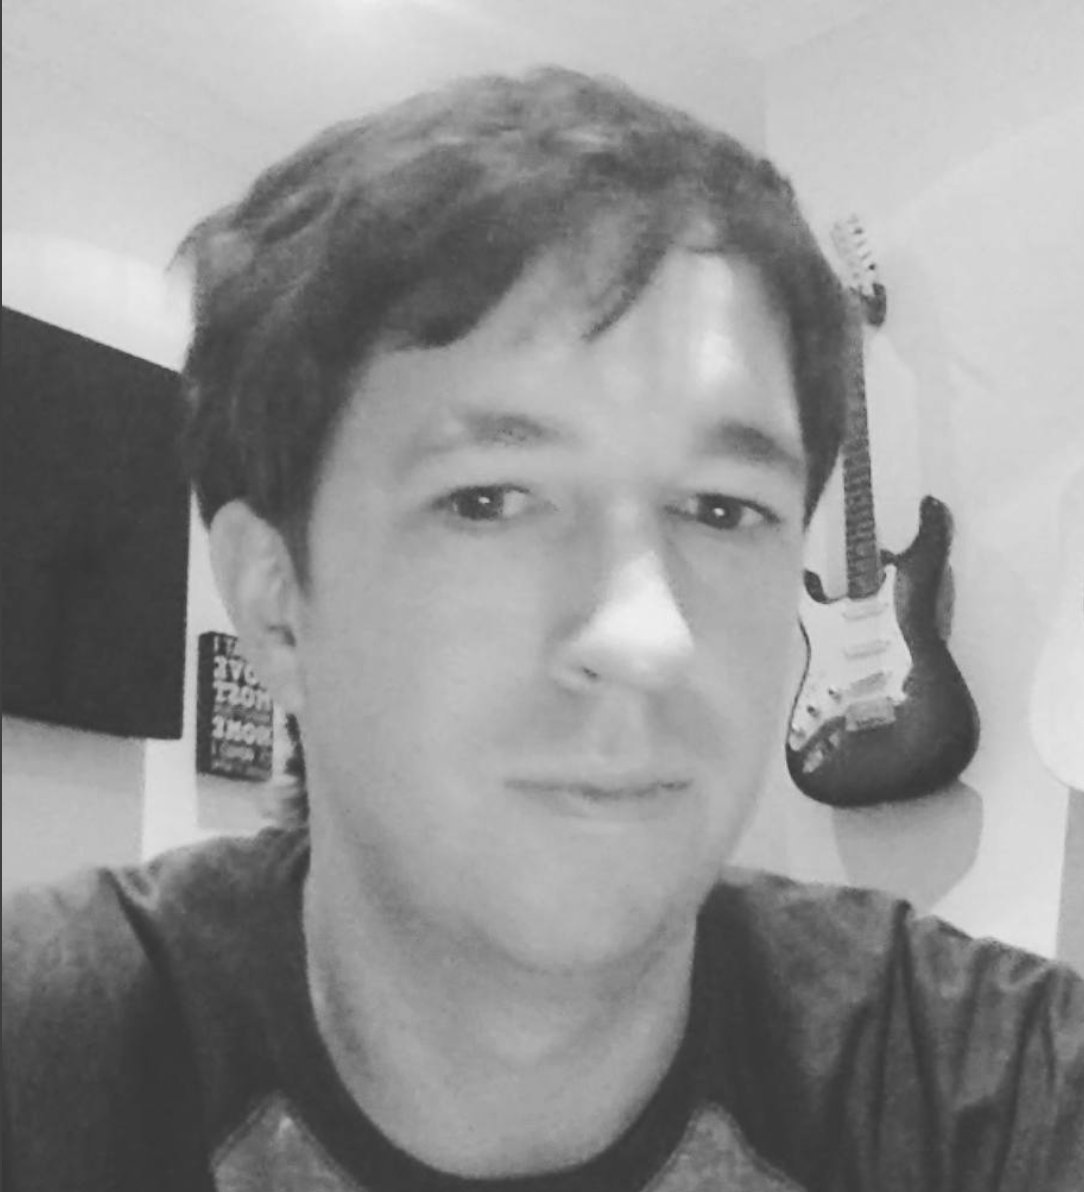
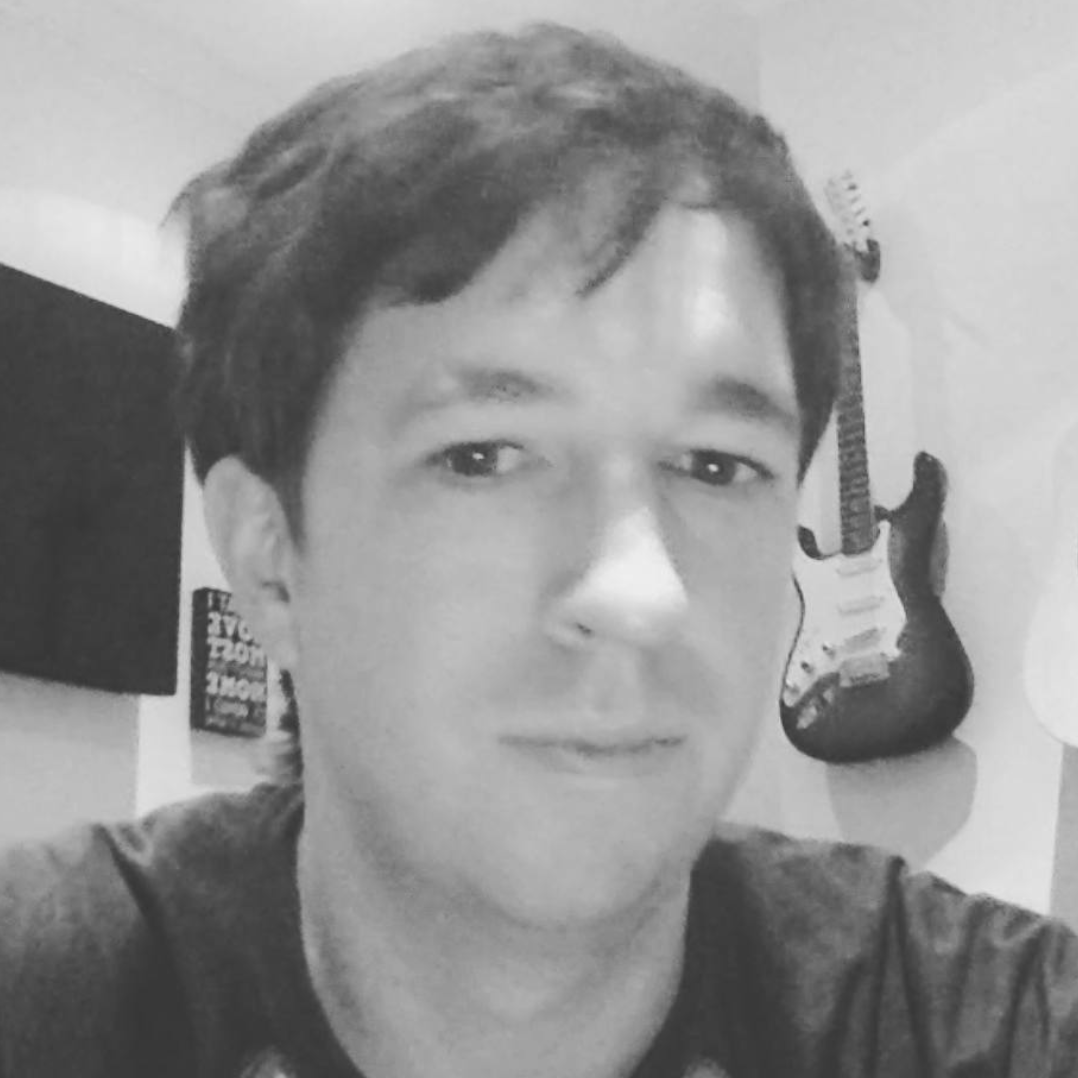
picture styles

diff --git a/src/app/main/main.component.html b/src/app/main/main.component.html
@@ -1,7 +1,7 @@
 <span id="DeltaPlaceHolderMain">                   
   <div class="bannerImg">
     <div id="ctl00_PlaceHolderMain_ucHeroBanner_divBoxPosition" class="herobnr_Right">
-      <a href="https://www.youtube.com/watch?v=o4nOFYcQbhA" id="ctl00_PlaceHolderMain_ucHeroBanner_btnBannerImage" class="hrBanLnk popup-youtube">
+      <a id="ctl00_PlaceHolderMain_ucHeroBanner_btnBannerImage" class="hrBanLnk popup-youtube">
         <div>
           <img id="ctl00_PlaceHolderMain_ucHeroBanner_imgBannerHome" class="heroShadow" src="./assets/code4.jpg" >
         </div>

diff --git a/src/app/main/main.component.css b/src/app/main/main.component.css
@@ -65,8 +65,9 @@ h1{
 }
 
 .profile-picture {
-	height: 110px;
-	width: 100px;
+	height: 120px;
+	width: 120px;
+	border-radius: 100px;
 	margin-bottom: -5px;
 	margin-top: -10px;
 }
